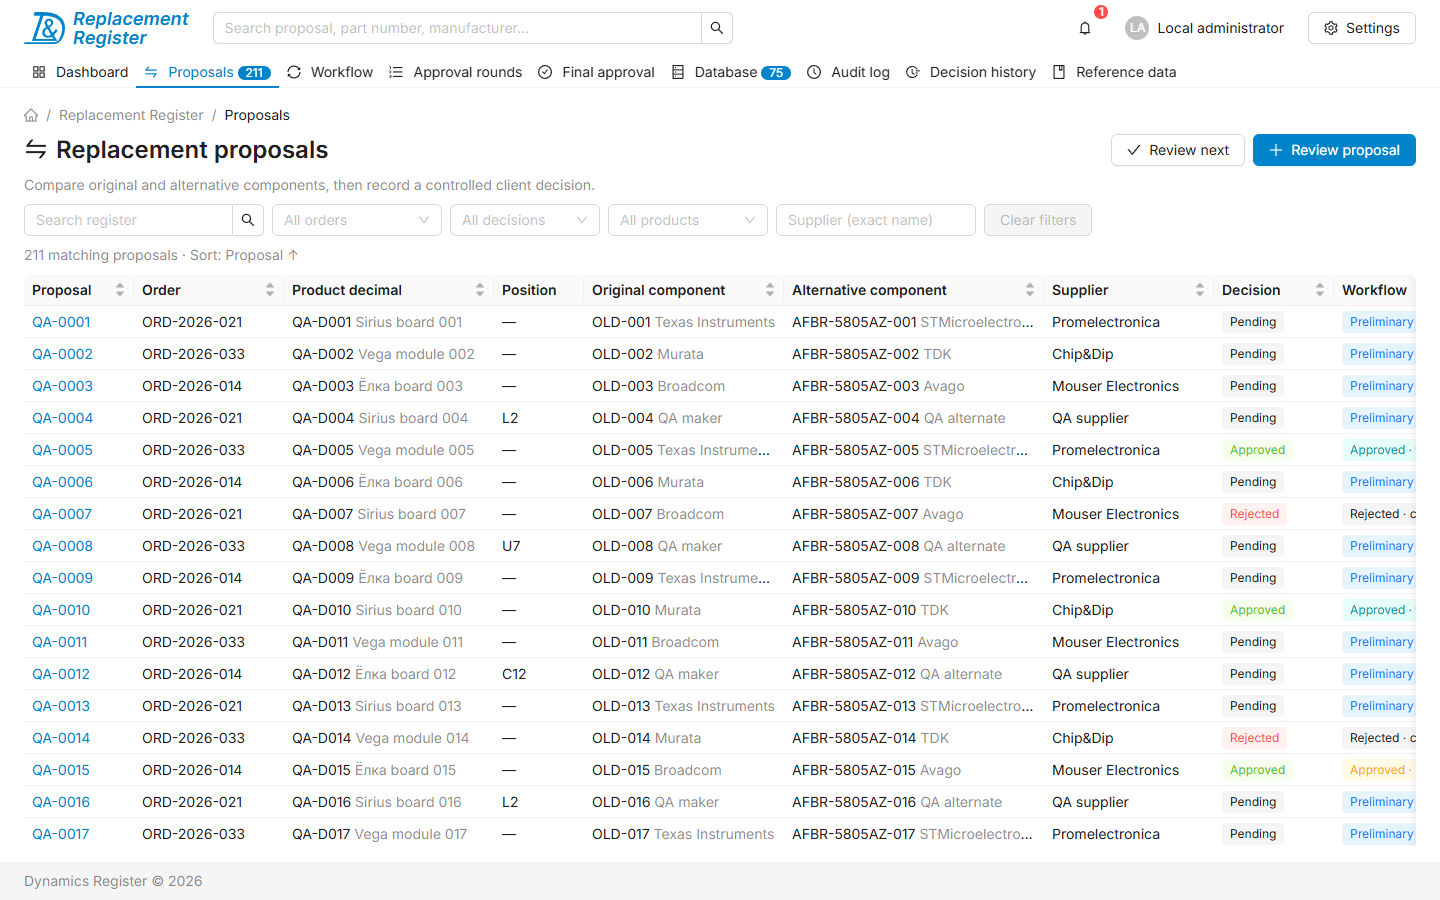
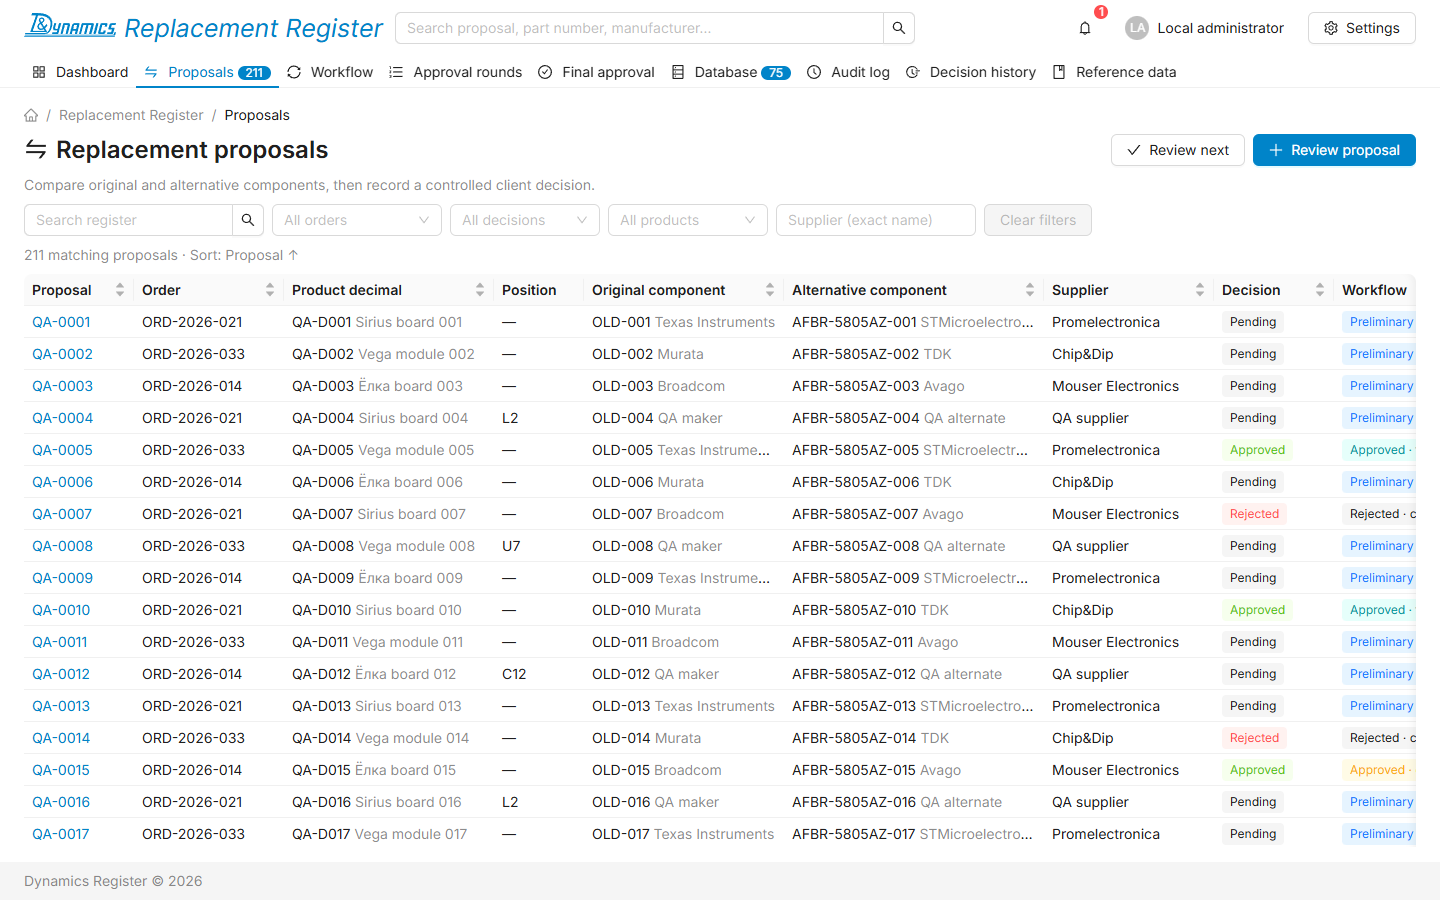
Guide: core adaptation rules; popups without Cancel; screenshots retaken
- REDESIGN_SKILL_GUIDE.md: new section 1.1 (logo/name, no pagination + full-height tables,
  side panels -> popups, popup buttons bottom right with primary rightmost, no Cancel,
  labels left of inputs); details in sections 7, 8, 9 and 10.
- CRM and Register popups: antd's default Cancel button removed
  (footer={(_, { OkBtn }) => <OkBtn />}); close with X, outside click or Esc.
- screenshots/: all 7 desktop screenshots retaken at 1440x900.
- CLAUDE.md: popup rule, screenshot date, progress log.

Changed region(s): [[0.0, 0.0, 0.375, 0.0622]]

diff --git a/antd-proposals/src/components/ReviewProposalModal.tsx b/antd-proposals/src/components/ReviewProposalModal.tsx
@@ -67,6 +67,8 @@ export function ReviewProposalModal({ open, proposal, proposals, onSubmit, onCan
       open={open}
       okText="Save decision"
       okButtonProps={{ htmlType: 'submit' }}
+      // No "Cancel" button: close with the X, a click outside the popup or Esc. The primary button is alone, bottom right.
+      footer={(_, { OkBtn }) => <OkBtn />}
       onCancel={onCancel}
       afterClose={reset}
       destroyOnHidden

diff --git a/antd-contacts/src/components/ContactFormModal.tsx b/antd-contacts/src/components/ContactFormModal.tsx
@@ -29,6 +29,8 @@ export function ContactFormModal({ open, formName, title, okText, initialValues,
       open={open}
       okText={okText}
       okButtonProps={{ htmlType: 'submit' }}
+      // No "Cancel" button: close with the X, a click outside the popup or Esc. The primary button is alone, bottom right.
+      footer={(_, { OkBtn }) => <OkBtn />}
       onCancel={onCancel}
       afterClose={reset}
       destroyOnHidden

diff --git a/REDESIGN_SKILL_GUIDE.md b/REDESIGN_SKILL_GUIDE.md
@@ -27,6 +27,23 @@ For every application it redesigns, the skill:
    *use* the shared pieces and not to re-implement or override them.
 4. Verifies the result with the checks in section 10, including a **production build**.
 
+### 1.1 Core adaptation rules (at a glance)
+
+These are the changes to stock Ant Design that the skill applies to every source app. Each one is detailed in the
+section given in brackets.
+
+1. **Logo and name:** the Dynamics logo 24px high, 8px gap, then the application name on one line in Regular Italic
+   (400), 25px, `colorPrimary`. The name's **baseline sits on the logo's bottom edge**, and the search field starts
+   **12px** after the name (5.1, 5.2).
+2. **No pagination:** tables have no pager. Each table fills the full free height of the screen, and if the rows don't
+   fit, only the table body scrolls (6.2).
+3. **No side panels:** details side panels/drawers and separate detail pages become **popups** (`Modal`) (7).
+4. **Popup buttons at the bottom right:** the action buttons sit only at the bottom right of the popup, and the
+   **primary (blue) button is the rightmost** one (7).
+5. **No "Cancel" button in popups:** the popup is cancelled with the close icon (X), a click outside the popup, or
+   Esc (7).
+6. **Labels to the left of inputs:** a field's label is on the same line, to the left of the input, never above it (8).
+
 The original screenshots or UI tell the skill **what the page contains and how it is organised** (sections, fields,
 columns, actions). They are **not** a source of colours, spacing, fonts or component shapes. Those come only from the
 standard.
@@ -235,15 +252,26 @@ Reference: `antd-contacts/src/components/ContactFormModal.tsx`, `antd-proposals/
 
 - `Modal centered destroyOnHidden`, with the default width or wider for card-like popups (960). Animation speed comes
   from the theme (75%).
+- **Side panels become popups.** Every details side panel (`Drawer`) or separate detail/record page in the
+  source app becomes a `Modal`.
 - **Create and edit share one popup component.** Edit = the same form, pre-filled and fully editable. Clicking a row
   opens edit. A side panel/drawer is **not** used for record details.
 - **Focus:** the **first form field** gets focus when the popup opens (`autoFocus` on the first control). The close
   (X) button must never be focused first.
 - **No delay:** the popup animation must start immediately after the click (measured 26–61ms in production). See the
   memoization rule in 6.2.
+- **Buttons: bottom right only, primary rightmost, no "Cancel".**
+  - Action buttons appear only in the popup's bottom-right corner (the Modal footer, or the save bar in card-like
+    popups). No action buttons in the header or in the middle of the body.
+  - The **primary (blue) button is the rightmost**. Secondary actions (e.g. a link button "Открыть сохранённую
+    версию") go to its left.
+  - **No "Cancel" / "Отмена" button.** Cancelling is done with the close icon (X), a click outside the popup (mask) or
+    Esc. Those are antd's defaults (`mask.closable` and `keyboard` are true): don't turn them off. Close = discard,
+    with no confirmation.
 - **Form + buttons:**
   - Simple popups: wrap the Modal content in the Form via `modalRender={(dom) => <Form …>{dom}</Form>}`, with
-    `okButtonProps={{ htmlType: 'submit' }}` and `okText` "Создать" / "Сохранить" / "Save decision".
+    `okButtonProps={{ htmlType: 'submit' }}` and `okText` "Создать" / "Сохранить" / "Save decision". Remove
+    antd's default Cancel button with `footer={(_, { OkBtn }) => <OkBtn />}`.
   - Card-like popups (a record card with a save state, history, etc.): `footer={null}` and a `<Form>` wrapping the
     **whole body**, with a **save bar at the very bottom**: status text ("Все изменения сохранены" / "Есть
     несохранённые изменения"), a link button "Открыть сохранённую версию" (restore), and a primary "Сохранить"
@@ -267,7 +295,8 @@ const { errors, reset, formProps } = useSubmitValidation<Values>();
 </Form>
 ```
 
-- **Layout:** the label and the input are on **one line**.
+- **Layout:** the label is **to the left of the input**, on the same line, **never above it** (no
+  `layout="vertical"` forms and no floating labels).
   - The label column width = **the widest label text in the form + 30px** (CSS grid `max-content`; no fixed width).
     All inputs start on one vertical line.
   - **Errors sit inside the `<label for=…>`, under the label text.** With an error, the label + error block is
@@ -310,7 +339,9 @@ const { errors, reset, formProps } = useSubmitValidation<Values>();
 | Details side panel / separate details page | a popup (`Modal`) with the editable pre-filled form |
 | Record card page (form + history) | a card-like popup, with the save bar at the bottom |
 | Info/demo banners, help footnotes, status cards | removed |
-| Floating-label / stacked-label inputs | `FormField` (inline label, error inside the label) |
+| Floating-label / stacked-label inputs (label above the input) | `FormField` (label to the left of the input, error inside the label) |
+| "Cancel" / "Отмена" button in a dialog | removed: close with X, a click outside or Esc |
+| Dialog buttons at the top, left or centre | the footer, bottom right, primary (blue) rightmost |
 | Required "*" | none |
 
 ## 10. Verification checklist (automate with Playwright; no screenshots unless asked)
@@ -338,6 +369,9 @@ Run against the dev server **and** the production build (`npm run build` + `vite
   - e-mail links don't open a popup and aren't `defaultPrevented`
 - **Popups:**
   - `document.activeElement` is the first field.
+  - No "Cancel"/"Отмена" button; the last button is `.ant-btn-primary` and sits at the bottom right (24px from the
+    right and 20px from the bottom of the popup).
+  - Esc and a click on the mask both close the popup.
   - Click → animation start is under ~100ms.
   - `getAnimations()`: zoom 225ms, mask 150ms.
   - Pre-filled values; save, then the list updates.

diff --git a/CLAUDE.md b/CLAUDE.md
@@ -69,7 +69,7 @@ logo, and a shared folder (not copies).
   `--ant-font-family` starts with `'Inter Variable'`.
 - **Screenshots: do not generate any** (not `screenshots/`, not visual checks) unless the user explicitly asks.
   Verify with computed styles and DOM measurements instead. `screenshots/` holds the desktop (1440×900) main pages and
-  popups of the three apps, taken on 2026-11-17 at the user's request. The old `docs/` folder was deleted.
+  popups of the three apps, retaken on 2026-11-19 at the user's request. The old `docs/` folder was deleted.
 - Shell = `AppShell` from `shared` (each app passes `productName`, `sections`, `activeSection`, search placeholder,
   user, footer texts; shell texts come from `shared/src/i18n.ts` by `AppProviders lang`).
   Header (56px): logo `shared/assets/logo.svg` (the Dynamics logo, 92×24 viewBox, copied from the root `logo.svg`)
@@ -89,6 +89,10 @@ logo, and a shared folder (not copies).
   headers, with a "· Sort: …" label in the count line.
 - Tables: **clicking anywhere on a row opens the row's popup** (`onRow` onClick + pointer cursor) in all apps.
   Exception: links with their own action stop the row click, e.g. CRM e-mail addresses (`mailto:`, opens the mail app).
+- Popups: action buttons **only at the bottom right**, the **primary (blue) button rightmost**, and **no "Cancel" /
+  "Отмена" button**. Cancelling = the X, a click outside the popup or Esc (antd defaults, keep them on). Form popups
+  drop antd's default Cancel with `footer={(_, { OkBtn }) => <OkBtn />}`; the Configurator card keeps its bottom save
+  bar ("Открыть сохранённую версию" link, then the primary "Сохранить"). Side panels/drawers are never used: popups only.
 - Popups: the **first form field gets focus** on open (`autoFocus` on the first control), never the X button. Opening
   a popup must not re-render the page's table: memoize `columns` and the `<Table>` element (stable callbacks), or
   the click → animation delay grows with the row count (it was ~550 ms with 211 rows).
@@ -352,6 +356,13 @@ npm run build -w antd-contacts   # one app
   plus `marginInlineEnd: marginSM` on the search (field and mobile icon button) to keep search → actions at 24px.
   Verified in all three apps: name → search 12px at 1440 and 800px; search → actions 24px at 800px (search shrunk) and
   at 390px (logo → icon button 12px, same total spacing as before); no horizontal scroll. `npm run build` passes.
+- 2026-11-19: Requested: REDESIGN_SKILL_GUIDE.md gets the latest logo/name changes and the core adaptation rules
+  (new §1.1: logo/name; no pagination + full-height scrolling tables; side panels → popups; popup buttons bottom right
+  with the primary rightmost; no Cancel button; labels left of inputs), with details in §7, §8, §9 and §10. Code:
+  CRM and Register popups lost antd's default Cancel button (`footer={(_, { OkBtn }) => <OkBtn />}`). Verified in all
+  four popups (CRM create/edit, Register review, Configurator offer): no Cancel, the last button is primary at the
+  bottom right (24px right / 20px bottom), Esc and an outside click close, first field focused, empty submit still
+  shows errors, 0 console warnings. The 7 screenshots in `screenshots/` were retaken at 1440×900.
 
 ## Gotchas found
 - `Breadcrumb` item `menu` is not typed as `MenuProps`. Derive the type:
